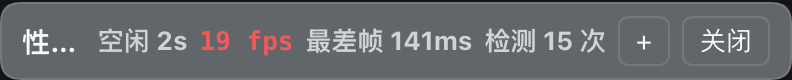
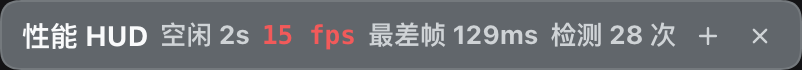
docs(panel): 九张截图重出,README 中英与面板约定同步改版
- tools/shots.mjs 截图前藏掉其它浮动插件(待办面板会盖住 HUD,拍到的是它)
- 药丸不再被展开态宽度封顶(之前品牌名被挤成「性能 H…」)
- README / README_EN 的四个视图描述按新界面改写;panel-rules 记下撤眉标的三条规则
- 卡顿详情记住来源屏(今天唯一入口在主界面,机制按来源屏记而不是写死)

Changed region(s): [[0.0303, 0.3143, 0.9697, 0.7143], [0.0, 0.0, 1.0, 0.0857]]

diff --git a/client.ui.js b/client.ui.js
@@ -1259,7 +1259,8 @@ window.__ModuleLoader__.load({
 			const view = state.view === 'incident' && state.watch.mode !== 'incident' ? 'main' : state.view;
 			const viewTitle = view === 'dev' ? t('viewDev') : view === 'settings' ? t('viewSettings') : t('viewIncident');
 			// 返回的落点:设置页回它来的那一屏,其余子页回主界面(2026-10-24 flow 修正)。
-			const backTo = view === 'settings' && state.settingsBack !== 'settings' ? state.settingsBack : 'main';
+			const backTo = view === 'settings' && state.settingsBack !== 'settings' ? state.settingsBack
+				: view === 'incident' && state.incidentBack !== 'incident' ? state.incidentBack : 'main';
 			const head = h('div', { style: { ...S.head, ...S.drag }, title: t('dragHint'), onPointerDown: startDrag, onDoubleClick: resetPos },
 				h('div', { style: S.headLeft },
 					// 返回是**图标**:它每一屏都在,却只在子页出现 —— 三个汉字换成 14px 的箭头,
@@ -1506,7 +1507,7 @@ window.__ModuleLoader__.load({
 					trendMs: state.trendMs,
 					why: state.causeOpen,
 					preview: state.packPreview !== null && latestRow !== null && state.packPreview.incident.id === latestRow.id ? state.packPreview : null,
-					onOpen: (id) => { setView('incident'); revealIncident(id); },
+					onOpen: (id) => { state.incidentBack = state.view; setView('incident'); revealIncident(id); },
 					onExportPreview: (id) => { openPackPreview(id, { dropFreeText: true }); },
 					onExportGo: () => {
 						const id = state.packPreviewId;

diff --git a/client.js b/client.js
@@ -436,6 +436,9 @@ window.__ModuleLoader__.load({
 			// 「设置」是从哪一屏进去的(2026-10-24):← 回到来源,而不是永远回主界面。
 			// 只活在本次会话里 —— 不落盘,刷新之后从设置页返回仍然回主界面。
 			settingsBack: 'main',
+			// 「卡顿详情」是从哪一屏进去的(2026-10-24):← 回到来源。今天唯一的入口在主界面,
+			// 但记的是**来源屏本身**而不是写死 main —— 以后加第二个入口不用再改返回逻辑。
+			incidentBack: 'main',
 			since: Date.now(),
 			root: null,              // HUD 根元素:DOM 统计里排除它
 			pos: null,               // 左下角 `{ left, bottom }` 或右下角 `{ right, bottom }`;null = 默认位置
@@ -3132,7 +3135,8 @@ window.__ModuleLoader__.load({
 					}
 					// 收起态/已关态**不设宽度**:内容多宽就多宽(chip 才是它该有的样子),
 					// 只封顶 —— 药丸那一长条读数在宽屏上会比展开态还宽(实测 425),窄屏上不能溢出去。
-					: { maxWidth: width, padding: '6px 10px' }),
+					// ⚠ 封顶值不能是展开态宽度:那样药丸会被挤成省略号(品牌名先让位,实测变成「性能 H…」)。
+					: { maxWidth: Math.max(width, 460), padding: '6px 10px' }),
 			}),
 			// 正文滚动区:展开态唯一的滚动容器(`minHeight: 0` 是 flex 子项能滚起来的前提)。
 			scroll: { flex: '1 1 auto', minHeight: 0, overflowY: 'auto', overflowX: 'hidden' },

diff --git a/README.md b/README.md
@@ -157,10 +157,10 @@ dsh plugin --profile web add "$PWD"
 
 | 视图 | 给谁 | 回答什么 |
 |---|---|---|
-| **主界面**(默认) | 普通用户 | 现在顺不顺 + 最近 60 秒的帧间隔分布 / 最近一次卡了多久、什么时候 / 可能是什么原因(每条都带**支持与限制**)/ 最近 1 小时或 24 小时发生几次、有没有重复线索;两个主操作是「查看这次卡顿」与「导出诊断报告」 |
-| **卡顿详情** | 想看那一次 | 独立一屏,顶部有一个返回键(「←」,悬停给"回到主界面");**默认只给结论层** —— 窗口范围、归因状态、真实时间轴与翻帧(◀ ▶ + 「只看异常」),加上对这条事故的两个动作(复制摘要 / 导出事故包);**技术读数收在默认折叠的「技术细节」里**(帧内分解 / 脚本细拆 / 重叠 long task / 可疑脚本 / 包 × 来源 / 口径),展开才看 —— 数据全部来自**它自己**的事故包 |
-| **开发者详情** | 开发者 | 5 个标签页:**帧与归因** / **DOM 与堆** / **宿主与链路** / **工具箱** / **原始数据** —— 现有能力一个都没删,只是从"一屏铺开 + 折叠组"变成"选一个标签页看一组"(「深录」开关只在这一屏的标题栏与设置页出现) |
-| **设置** | 所有人 | 记录模式(守夜默认常开 / 深录要显式开)、数据保留策略(含**插件占用 / 上限**:事故 / sourcemap 缓存 / 其余三块)、隐私与脱敏口径 |
+| **主界面**(默认) | 普通用户 | 一个大数(当前 fps)+ 60 秒帧条(一格一秒,点得动)+ 帧间隔分布 / 最近一次卡了多久、什么时候、可能是什么原因(原因缩进挂在事故下面)/ 最近 1 小时或 24 小时发生几次;整块事故可点进详情,右侧一个下载图标直接导出诊断报告;底部一行「技术细节」进开发者详情 |
+| **卡顿详情** | 想看那一次 | 独立一屏,标题栏左侧是返回箭头(悬停给"返回",回到进来时那一屏);**默认只给结论层** —— 窗口范围、归因状态、真实时间轴与翻帧(◀ ▶ + 「只看异常」),加上对这条事故的两个动作(复制摘要 / 导出事故包);**技术读数收在默认折叠的「技术细节」里**(帧内分解 / 脚本细拆 / 重叠 long task / 可疑脚本 / 包 × 来源 / 口径),展开才看 —— 数据全部来自**它自己**的事故包 |
+| **开发者详情** | 开发者 | 5 个文字页签:**帧与归因** / **DOM 与堆** / **宿主** / **工具箱** / **原始数据** —— 现有能力一个都没删,只是从"一屏铺开 + 折叠组"变成"选一个页签看一组";「深录」是页签行右侧的开关位,不在标题栏 |
+| **设置** | 所有人 | 一张表:记录模式(守夜 / 深录两格)、留存四个数(保存 / 裁掉 / 检测 / 丢失)+ 占用与上限、隐私与脱敏、快捷键;长解释进悬停 |
 
 默认那一屏**不出现** LoAF / p99 / RTT / 包名排行 / 帧编号 —— 那些在开发者详情里。折叠起来时是右下角那颗药丸(fps / 最差帧 / 最近 24 小时检测到几次),点开回到主界面。
 
@@ -195,7 +195,7 @@ dsh plugin --profile web add "$PWD"
 
 ## 📊 面板怎么读
 
-> ⚠ **本节的行级口径描述的是「开发者详情」里的那些块**(界面结构见上一节)。默认那一屏是**主界面**:只有当前状态 / 近 60 秒帧分布 / 最近一次卡顿 / 可能原因 / 最近趋势五块 + 两个主操作,行级细节(包名、帧编号、LoAF / p99 / RTT)都不在那儿。截图与逐步操作在真机验收之后补。
+> ⚠ **本节的行级口径描述的是「开发者详情」里的那些块**(界面结构见上一节)。默认那一屏是**主界面**:只有"当前多快 / 60 秒帧条与帧分布 / 最近一次卡顿与可能原因 / 最近趋势"四块 + 一个「技术细节」入口,行级细节(包名、帧编号、LoAF / p99 / RTT)都不在那儿。界面上的眉标(「当前状态」「最近一次卡顿」这类)在 2026-10-24 的改版里撤掉了,层级改由字号与分隔线承担。
 
 面板分**三档**,默认是最便宜的那一档 —— 它测的是别人的性能,所以自己必须先便宜、可关、可还原:
 

diff --git a/README_EN.md b/README_EN.md
@@ -117,10 +117,10 @@ The panel has **four views**, one at a time (only the view name is persisted, ne
 
 | View | For | Answers |
 |---|---|---|
-| **Overview** (default) | everyday users | Is it smooth right now / how long was the last stall and when / what might have caused it (each candidate with its **support and limits**) / how many stalls in the last hour or 24 hours and whether a lead repeats; the two primary actions are "view this stall" and "export the diagnostic report" |
+| **Overview** (default) | everyday users | One big number (current fps) + a 60-second strip (one bar per second, clickable) + frame mix / how long the last stall was, when, and what might have caused it (causes are indented under the stall) / how many stalls in the last hour or 24 hours; the whole stall row opens the detail screen and a download icon exports the diagnostic report; a "technical details" row at the bottom opens developer details |
 | **Stall detail** | looking at that one stall | Its own screen with a back arrow ("←", hover says "back to the overview"); **the conclusion layer only** — window scope, attribution state, the real timeline with its navigation (◀ prev / next ▶ plus an "only bad" filter) and the two actions for this incident (copy summary / export pack). **All technical readings sit in a collapsed "technical details" group** (frame breakdown / script split / overlapping long tasks / suspect scripts / package × source / definitions); the data still comes from **its own** incident pack |
-| **Developer details** | developers | 5 tabs: **Frames & blame** / **DOM & heap** / **Host & link** / **Toolbox** / **Raw data** — nothing was removed, it moved from one long screen with folded groups into one group per tab (the "deep" switch lives in this screen's title bar and in Settings) |
-| **Settings** | everyone | Capture mode (night watch always on / deep recording explicit), retention policy, privacy and redaction |
+| **Developer details** | developers | 5 text tabs: **Frames & blame** / **DOM & heap** / **Host** / **Toolbox** / **Raw data** — nothing was removed, it moved from one long screen with folded groups into one group per tab; the "deep" switch is a toggle at the right end of the tab row, not in the title bar |
+| **Settings** | everyone | One table: capture mode (night watch / deep), four retention numbers (kept / trimmed / detected / lost) plus storage usage and cap, privacy and redaction, shortcut; long explanations live in tooltips |
 
 The default screen never shows LoAF / p99 / RTT / package rankings / frame indices — those live in developer details. Collapsed, it is the pill in the bottom-right corner (fps / worst frame / stalls detected in the last 24 hours); expanding it returns to the overview.
 
@@ -157,9 +157,10 @@ The five tabs of **developer details** (nothing was removed, it is just split in
 ## Reading the panel
 
 > ⚠ The line-level notes below describe the blocks inside **developer details** (see the interface structure
-> section above). The default screen is the **overview**: current status / most recent stall / possible cause /
-> recent trend plus two primary actions — no package names, frame indices, LoAF, p99 or RTT. Screenshots and
-> step-by-step instructions come after the new UI passes real-device acceptance.
+> section above). The default screen is the **overview**: how fast it is now / the 60-second strip and frame mix /
+> the last stall and its possible causes / recent trend, plus one "technical details" entry — no package names,
+> frame indices, LoAF, p99 or RTT. The eyebrow labels ("current status", "most recent stall") were removed in the
+> 2026-10-24 redesign; hierarchy is carried by type size and rules instead.
 
 The plugin has **three tiers**, and the default is the cheapest one — it measures other people's performance,
 so it has to be cheap, switchable and reversible itself:

diff --git a/docs/panel-rules.md b/docs/panel-rules.md
@@ -103,3 +103,21 @@
 ### 折叠组默认不做昂贵分析
 
 - **折叠组默认不做昂贵分析,现在由 `group()` 的 thunk 保证**:`group(key, label, summary, ...children)` 支持"唯一一个 child 且是个函数"的形式,折叠时**连函数体都不进**;六个调用点(`detail` / `cross` / `dom` / `host` / `tools` / `tech`)全传 thunk,所以「取证明细」与「技术细节」收起时脚本按包 / 交叉表 / 帧条一次都不算。代价要记住:**`cross` 嵌在「取证明细」的 thunk 里,「技术细节」又嵌着「取证明细」那条链上的同一批块** —— 一展开任一层,调用方就先构造 `crossTable(scriptPkgTally())` 与 `kids` 数组(4×5 格,代价低),所以窗口聚合那份缓存不能省。摘要那一行(`techSummary`)即使收起也会被求值,所以它**只读已经算好的 `detail`**,不重新采、不重新解析。
+
+## 改版:撤掉眉标(2026-10-24)
+
+- **原则**:*Avoid unnecessary secondary labels and descriptions. Let the layout do the explaining.*
+  用户 2026-10-24 采纳,同时写进全局记忆。
+- **落地**:主界面不再有「当前状态 / 近 60 秒帧分布 / 最近一次卡顿 / 可能原因 / 最近 1 小时」五个眉标 ——
+  层级由 46px 大数、2px 左侧色条、1px 分隔线与原因缩进承担;卡顿详情撤掉「事故回放 / 归因状态」
+  (范围变一行数据、状态变徽章);设置页从三段散文变成一张「键 + 值」表。
+- **标题栏**:设置 / 收起 / 关闭 / 返回改成 14px 行内 SVG(`client.ui.js` 的 `ICONS` + `panelIcon`),
+  文字按钮全部撤掉。**验收器不能再按 textContent 找控件** —— `check-panel` / `check-incident` 已改成
+  「文字或 `aria-label` 匹配」;`check-incident` 的卡顿详情入口改用 `[data-incident-open]` 钩子
+  (「查看这次卡顿」按钮已并入整块事故行)。
+- **字号阶梯**:46 / 34 / 24 / 20 / 15 / 13 / 12 / 11 / 10,数字一律 `tabular-nums`;
+  同一屏里不许出现两种「看起来一样大」的层级。
+- **说明文字进 `title`**:`modeHintShort` / `retainText` / `privacyText` / `privacyRedaction` 这些长句
+  只出现在悬停里,正文只留读数与短标签。改文案时死键断言会盯住「删了界面但没删词典」。
+- **药丸没有跟着瘦身**:fps / 最差帧 / LT / 检测 四个读数一个不少(§5「折叠不是看不见」),
+  只把 ＋ / 关闭换成图标按钮。
